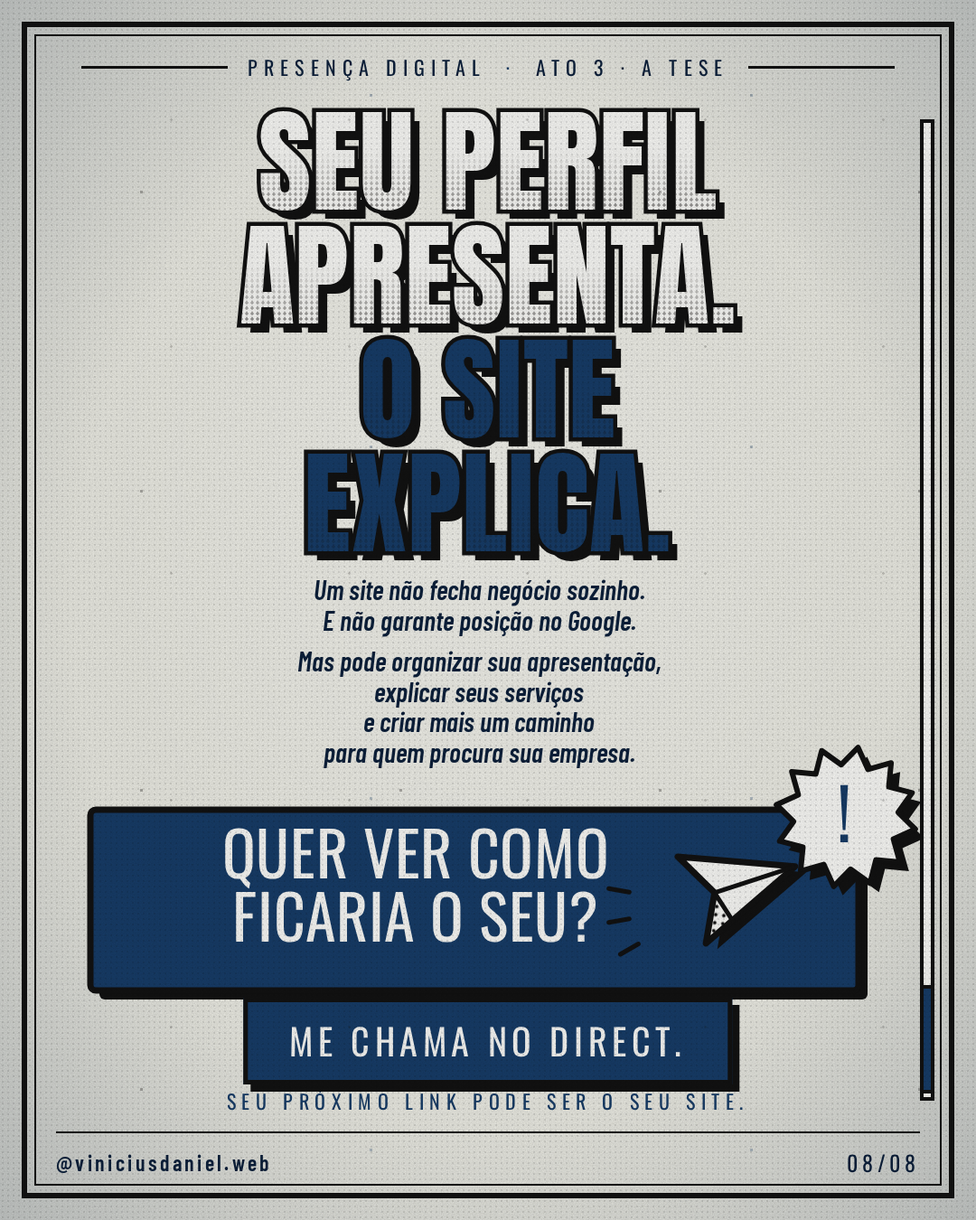
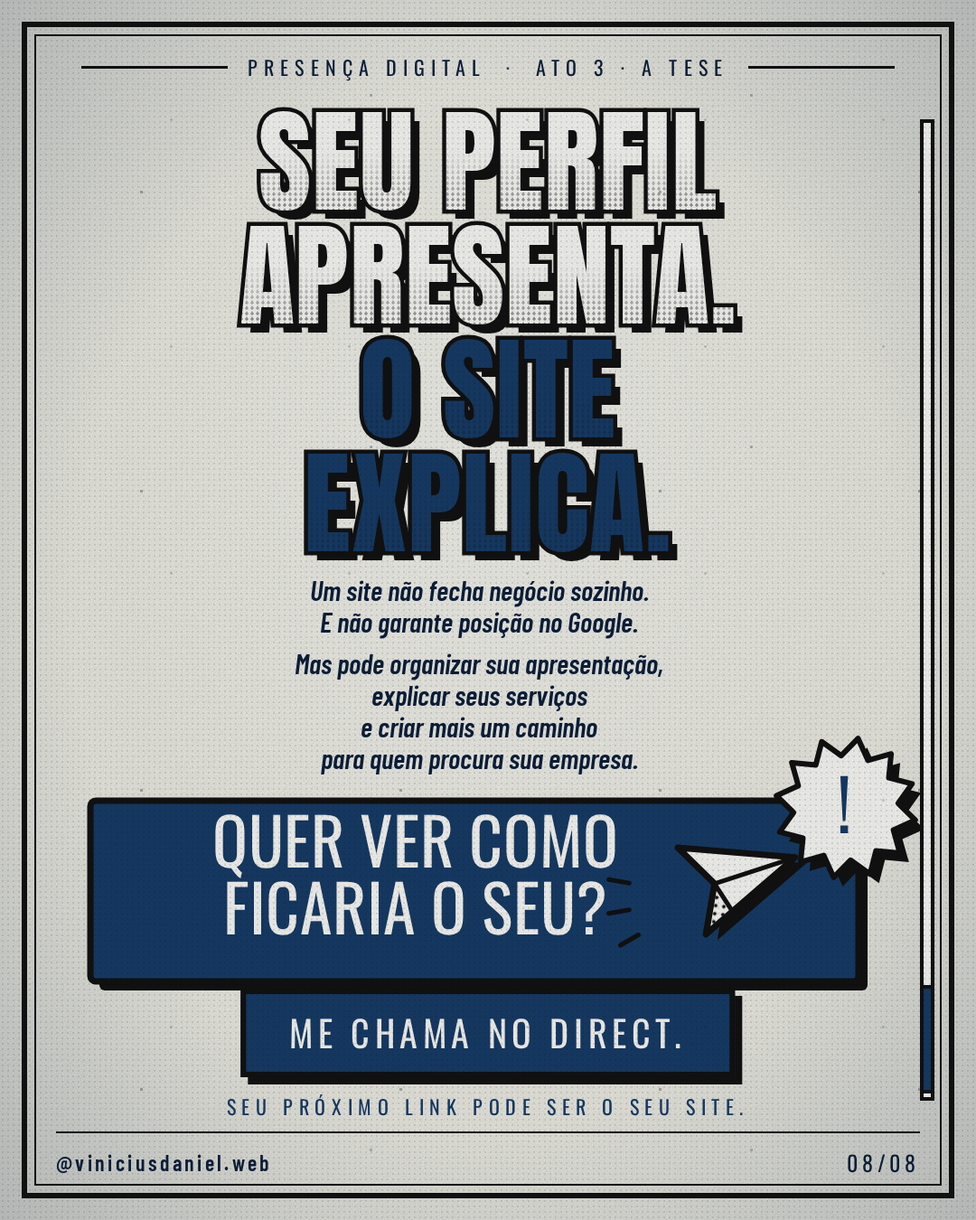
Segundo passe de acabamento
Textos pequenos com mais corpo (legendas, balões, categorias, rótulos do
feed), CTA da capa com borda de 6px, página 07 com mais espaço entre os
testes e selos maiores, página 08 com CTA e pergunta principal maiores.
Paleta verificada: apenas #E9E9E1, #F7F7F4, #163B66, #0B1F3A e #111111
nas 8 páginas; scroll avança em passos iguais da 01 à 08.

Claude-Session: https://claude.ai/code/session_01AyRMPHZabwp6dDTAK3QhXg

Changed region(s): [[0.0917, 0.4667, 0.9472, 0.9333]]

diff --git a/pages/07.html b/pages/07.html
@@ -9,12 +9,12 @@
 <div class="page" id="p7">
   <div class="kicker">PRESENÇA DIGITAL <em>·</em> ATO 3 · O TESTE</div>
   
-    <div class="hl center" style="top:118px;font-size:90px;"><span class="l" data-t="NÃO ACREDITE">NÃO ACREDITE</span><span class="l" data-t="EM MIM.">EM MIM.</span><span class="l or" data-t="TESTE.">TESTE.</span></div>
-    <div class="band center" style="top:392px;font-size:38px;">3 TESTES. 30 SEGUNDOS.</div>
-    <div style="position:absolute;left:84px;right:96px;top:664px;height:3px;background:#111111;z-index:9"></div>
-    <div style="position:absolute;left:84px;right:96px;top:862px;height:3px;background:#111111;z-index:9"></div>
+    <div class="hl center" style="top:116px;font-size:86px;"><span class="l" data-t="NÃO ACREDITE">NÃO ACREDITE</span><span class="l" data-t="EM MIM.">EM MIM.</span><span class="l or" data-t="TESTE.">TESTE.</span></div>
+    <div class="band center" style="top:380px;font-size:38px;">3 TESTES. 30 SEGUNDOS.</div>
+    <div style="position:absolute;left:84px;right:96px;top:656px;height:3px;background:#111111;z-index:9"></div>
+    <div style="position:absolute;left:84px;right:96px;top:860px;height:3px;background:#111111;z-index:9"></div>
     
-  <div class="test" style="position:absolute;left:84px;right:96px;top:474px;height:184px;z-index:10">
+  <div class="test" style="position:absolute;left:84px;right:96px;top:462px;height:184px;z-index:10">
     <svg class="art " style="display:block" width="140" height="184" viewBox="0 0 140 184" xmlns="http://www.w3.org/2000/svg">
 <defs>
   <pattern id="ht" width="9" height="9" patternUnits="userSpaceOnUse" patternTransform="rotate(25)">
@@ -30,15 +30,15 @@
     <rect width="4" height="10" fill="#111111"/>
   </pattern>
 </defs>
-  <g transform="translate(64,92)">
-    <circle cx="10" cy="10" r="56" fill="#111111"/>
-    <circle cx="0" cy="0" r="56" fill="#163B66" stroke="#111111" stroke-width="7"/>
-    <circle cx="0" cy="0" r="42" fill="none" stroke="#F7F7F4" stroke-width="3" stroke-dasharray="8 7"/>
-    <text x="0" y="28.799999999999997" font-family="Anton" font-weight="400" font-size="80" fill="#F7F7F4" text-anchor="middle" letter-spacing="0"  >1</text>
+  <g transform="translate(66,92)">
+    <circle cx="10" cy="10" r="60" fill="#111111"/>
+    <circle cx="0" cy="0" r="60" fill="#163B66" stroke="#111111" stroke-width="7"/>
+    <circle cx="0" cy="0" r="46" fill="none" stroke="#F7F7F4" stroke-width="3" stroke-dasharray="8 7"/>
+    <text x="0" y="30.959999999999997" font-family="Anton" font-weight="400" font-size="86" fill="#F7F7F4" text-anchor="middle" letter-spacing="0"  >1</text>
   </g></svg>
     <div style="position:absolute;left:146px;top:16px;width:520px">
       <div style="display:inline-block;background:#163B66;color:#F7F7F4;font-family:Oswald;font-weight:700;font-size:27px;letter-spacing:.14em;padding:3px 16px 4px;border:4px solid #111111;box-shadow:5px 5px 0 #111111;transform:rotate(-1.5deg)">PESQUISE:</div>
-      <div style="font-family:'Barlow Condensed';font-weight:600;font-size:30px;line-height:1.1;margin-top:12px;color:#0B1F3A"><span class="hi" style="font-weight:800;font-size:31px;padding:0 8px;background:#163B66;color:#F7F7F4">seu serviço + sua cidade</span><br><span style="display:inline-block;margin-top:8px">É fácil encontrar e entender sua empresa?</span></div>
+      <div style="font-family:'Barlow Condensed';font-weight:600;font-size:31px;line-height:1.1;margin-top:12px;color:#0B1F3A"><span class="hi" style="font-weight:800;font-size:31px;padding:0 8px;background:#163B66;color:#F7F7F4">seu serviço + sua cidade</span><br><span style="display:inline-block;margin-top:8px">É fácil encontrar e entender sua empresa?</span></div>
     </div>
     <svg class="art " style="position:absolute;left:600px;top:0px;z-index:8" width="300" height="184" viewBox="0 0 300 184" xmlns="http://www.w3.org/2000/svg">
 <defs>
@@ -61,10 +61,10 @@
     <rect x="165.2" y="9.28" width="81.19999999999999" height="39.440000000000005" rx="19.720000000000002" fill="#163B66" stroke="#111111" stroke-width="5"/>
     <circle cx="205.8" cy="26" r="8.7" fill="none" stroke="#F7F7F4" stroke-width="5"/>
     <line x1="211.6" y1="36" x2="218.56" y2="47" stroke="#F7F7F4" stroke-width="6" stroke-linecap="round"/>
-  </g><polygon points="286,34 289.36,42.64 298,46 289.36,49.36 286,58 282.64,49.36 274,46 282.64,42.64" fill="#163B66"/><polygon points="24,125 26.52,131.48 33,134 26.52,136.52 24,143 21.48,136.52 15,134 21.48,131.48" fill="#111111"/></svg>
+  </g><polygon points="286,34 289.36,42.64 298,46 289.36,49.36 286,58 282.64,49.36 274,46 282.64,42.64" fill="#163B66"/><polygon points="150,141 152.52,147.48 159,150 152.52,152.52 150,159 147.48,152.52 141,150 147.48,147.48" fill="#111111"/></svg>
   </div>
     
-  <div class="test" style="position:absolute;left:84px;right:96px;top:672px;height:184px;z-index:10">
+  <div class="test" style="position:absolute;left:84px;right:96px;top:666px;height:184px;z-index:10">
     <svg class="art " style="display:block" width="140" height="184" viewBox="0 0 140 184" xmlns="http://www.w3.org/2000/svg">
 <defs>
   <pattern id="ht" width="9" height="9" patternUnits="userSpaceOnUse" patternTransform="rotate(25)">
@@ -80,15 +80,15 @@
     <rect width="4" height="10" fill="#111111"/>
   </pattern>
 </defs>
-  <g transform="translate(64,92)">
-    <circle cx="10" cy="10" r="56" fill="#111111"/>
-    <circle cx="0" cy="0" r="56" fill="#163B66" stroke="#111111" stroke-width="7"/>
-    <circle cx="0" cy="0" r="42" fill="none" stroke="#F7F7F4" stroke-width="3" stroke-dasharray="8 7"/>
-    <text x="0" y="28.799999999999997" font-family="Anton" font-weight="400" font-size="80" fill="#F7F7F4" text-anchor="middle" letter-spacing="0"  >2</text>
+  <g transform="translate(66,92)">
+    <circle cx="10" cy="10" r="60" fill="#111111"/>
+    <circle cx="0" cy="0" r="60" fill="#163B66" stroke="#111111" stroke-width="7"/>
+    <circle cx="0" cy="0" r="46" fill="none" stroke="#F7F7F4" stroke-width="3" stroke-dasharray="8 7"/>
+    <text x="0" y="30.959999999999997" font-family="Anton" font-weight="400" font-size="86" fill="#F7F7F4" text-anchor="middle" letter-spacing="0"  >2</text>
   </g></svg>
     <div style="position:absolute;left:146px;top:16px;width:520px">
       <div style="display:inline-block;background:#163B66;color:#F7F7F4;font-family:Oswald;font-weight:700;font-size:27px;letter-spacing:.14em;padding:3px 16px 4px;border:4px solid #111111;box-shadow:5px 5px 0 #111111;transform:rotate(-1.5deg)">PEÇA PARA ALGUÉM ENCONTRAR:</div>
-      <div style="font-family:'Barlow Condensed';font-weight:600;font-size:30px;line-height:1.1;margin-top:12px;color:#0B1F3A">sua região · seu horário · seus serviços<br><span style="font-weight:800;font-size:32px;letter-spacing:.04em;display:inline-block;margin-top:8px">EM 30 SEGUNDOS.</span></div>
+      <div style="font-family:'Barlow Condensed';font-weight:600;font-size:31px;line-height:1.1;margin-top:12px;color:#0B1F3A">sua região · seu horário · seus serviços<br><span style="font-weight:800;font-size:32px;letter-spacing:.04em;display:inline-block;margin-top:8px">EM 30 SEGUNDOS.</span></div>
     </div>
     <svg class="art " style="position:absolute;left:600px;top:0px;z-index:8" width="300" height="184" viewBox="0 0 300 184" xmlns="http://www.w3.org/2000/svg">
 <defs>
@@ -136,15 +136,15 @@
     <rect width="4" height="10" fill="#111111"/>
   </pattern>
 </defs>
-  <g transform="translate(64,92)">
-    <circle cx="10" cy="10" r="56" fill="#111111"/>
-    <circle cx="0" cy="0" r="56" fill="#163B66" stroke="#111111" stroke-width="7"/>
-    <circle cx="0" cy="0" r="42" fill="none" stroke="#F7F7F4" stroke-width="3" stroke-dasharray="8 7"/>
-    <text x="0" y="28.799999999999997" font-family="Anton" font-weight="400" font-size="80" fill="#F7F7F4" text-anchor="middle" letter-spacing="0"  >3</text>
+  <g transform="translate(66,92)">
+    <circle cx="10" cy="10" r="60" fill="#111111"/>
+    <circle cx="0" cy="0" r="60" fill="#163B66" stroke="#111111" stroke-width="7"/>
+    <circle cx="0" cy="0" r="46" fill="none" stroke="#F7F7F4" stroke-width="3" stroke-dasharray="8 7"/>
+    <text x="0" y="30.959999999999997" font-family="Anton" font-weight="400" font-size="86" fill="#F7F7F4" text-anchor="middle" letter-spacing="0"  >3</text>
   </g></svg>
     <div style="position:absolute;left:146px;top:16px;width:520px">
       <div style="display:inline-block;background:#163B66;color:#F7F7F4;font-family:Oswald;font-weight:700;font-size:27px;letter-spacing:.14em;padding:3px 16px 4px;border:4px solid #111111;box-shadow:5px 5px 0 #111111;transform:rotate(-1.5deg)">CONTE:</div>
-      <div style="font-family:'Barlow Condensed';font-weight:600;font-size:30px;line-height:1.1;margin-top:12px;color:#0B1F3A">quantas vezes nesta semana<br>você respondeu <span style="font-weight:800">a mesma pergunta</span><br>no WhatsApp.</div>
+      <div style="font-family:'Barlow Condensed';font-weight:600;font-size:31px;line-height:1.1;margin-top:12px;color:#0B1F3A">quantas vezes nesta semana<br>você respondeu <span style="font-weight:800">a mesma pergunta</span><br>no WhatsApp.</div>
     </div>
     <svg class="art " style="position:absolute;left:600px;top:0px;z-index:8" width="300" height="184" viewBox="0 0 300 184" xmlns="http://www.w3.org/2000/svg">
 <defs>
@@ -174,7 +174,7 @@
     <text x="100" y="30.56" font-family="Barlow Condensed" font-weight="700" font-size="21" fill="#F7F7F4" text-anchor="middle" letter-spacing=".02em"  >“Qual o horário?”</text>
   </g><polygon points="272,24 275.36,32.64 284,36 275.36,39.36 272,48 268.64,39.36 260,36 268.64,32.64" fill="#163B66"/></svg>
   </div>
-    <div class="final" style="top:1070px;font-size:70px;">O RESULTADO<br><span class="or">FALA POR VOCÊ.</span></div>
+    <div class="final" style="top:1074px;font-size:70px;">O RESULTADO<br><span class="or">FALA POR VOCÊ.</span></div>
   
   <div class="frame"></div>
   <div class="scroll"><div class="thumb" style="top:817px"></div></div>

diff --git a/pages/04.html b/pages/04.html
@@ -47,7 +47,7 @@
   <pattern id="lines" width="10" height="10" patternUnits="userSpaceOnUse" patternTransform="rotate(45)">
     <rect width="4" height="10" fill="#111111"/>
   </pattern>
-</defs><rect x="47" y="21" width="300" height="66" rx="4" fill="#111111"/><rect x="40" y="14" width="300" height="66" rx="4" fill="#F7F7F4" stroke="#111111" stroke-width="5" /><rect x="52" y="26" width="42" height="42" rx="3" fill="#163B66" stroke="#111111" stroke-width="4" /><line x1="108" y1="38" x2="218" y2="38" stroke="#111111" stroke-width="6" stroke-linecap="round"/><line x1="108" y1="58" x2="179.5" y2="58" stroke="#111111" stroke-width="6" stroke-linecap="round"/><text x="328" y="56" font-family="Oswald" font-weight="700" font-size="16" fill="#0B1F3A" text-anchor="end" letter-spacing=".1em"  >HOJE</text><rect x="61" y="97" width="300" height="66" rx="4" fill="#111111"/><rect x="54" y="90" width="300" height="66" rx="4" fill="url(#ht)" stroke="#111111" stroke-width="5" /><rect x="57" y="93" width="294" height="60" fill="#F7F7F4"/><rect x="57" y="93" width="294" height="60" fill="url(#ht)" opacity=".3"/><rect x="66" y="102" width="42" height="42" rx="3" fill="#F7F7F4" stroke="#111111" stroke-width="4" /><rect x="69" y="105" width="36" height="36" fill="url(#ht)" opacity=".4"/><line x1="122" y1="114" x2="232" y2="114" stroke="#111111" stroke-width="6" stroke-linecap="round"/><line x1="122" y1="134" x2="193.5" y2="134" stroke="#111111" stroke-width="6" stroke-linecap="round"/><text x="342" y="132" font-family="Oswald" font-weight="700" font-size="16" fill="#0B1F3A" text-anchor="end" letter-spacing=".1em"  >ONTEM</text><rect x="75" y="173" width="300" height="66" rx="4" fill="#111111"/><rect x="68" y="166" width="300" height="66" rx="4" fill="#F7F7F4" stroke="#111111" stroke-width="5" /><rect x="80" y="178" width="42" height="42" rx="3" fill="#F7F7F4" stroke="#111111" stroke-width="4" /><rect x="83" y="181" width="36" height="36" fill="url(#ht)" opacity=".4"/><line x1="136" y1="190" x2="246" y2="190" stroke="#111111" stroke-width="6" stroke-linecap="round"/><line x1="136" y1="210" x2="207.5" y2="210" stroke="#111111" stroke-width="6" stroke-linecap="round"/><text x="356" y="208" font-family="Oswald" font-weight="700" font-size="16" fill="#0B1F3A" text-anchor="end" letter-spacing=".1em"  >SEMANA PASSADA</text><rect x="89" y="249" width="300" height="66" rx="4" fill="#111111"/><rect x="82" y="242" width="300" height="66" rx="4" fill="url(#ht)" stroke="#111111" stroke-width="5" /><rect x="85" y="245" width="294" height="60" fill="#F7F7F4"/><rect x="85" y="245" width="294" height="60" fill="url(#ht)" opacity=".3"/><rect x="94" y="254" width="42" height="42" rx="3" fill="#163B66" stroke="#111111" stroke-width="4" /><line x1="150" y1="266" x2="260" y2="266" stroke="#111111" stroke-width="6" stroke-linecap="round"/><line x1="150" y1="286" x2="221.5" y2="286" stroke="#111111" stroke-width="6" stroke-linecap="round"/><text x="370" y="284" font-family="Oswald" font-weight="700" font-size="16" fill="#0B1F3A" text-anchor="end" letter-spacing=".1em"  >MÊS PASSADO</text><g transform="translate(392,40) rotate(90)">
+</defs><rect x="47" y="21" width="300" height="66" rx="4" fill="#111111"/><rect x="40" y="14" width="300" height="66" rx="4" fill="#F7F7F4" stroke="#111111" stroke-width="5" /><rect x="52" y="26" width="42" height="42" rx="3" fill="#163B66" stroke="#111111" stroke-width="4" /><line x1="108" y1="38" x2="218" y2="38" stroke="#111111" stroke-width="6" stroke-linecap="round"/><line x1="108" y1="58" x2="179.5" y2="58" stroke="#111111" stroke-width="6" stroke-linecap="round"/><text x="328" y="57" font-family="Oswald" font-weight="700" font-size="18" fill="#0B1F3A" text-anchor="end" letter-spacing=".08em"  >HOJE</text><rect x="61" y="97" width="300" height="66" rx="4" fill="#111111"/><rect x="54" y="90" width="300" height="66" rx="4" fill="url(#ht)" stroke="#111111" stroke-width="5" /><rect x="57" y="93" width="294" height="60" fill="#F7F7F4"/><rect x="57" y="93" width="294" height="60" fill="url(#ht)" opacity=".3"/><rect x="66" y="102" width="42" height="42" rx="3" fill="#F7F7F4" stroke="#111111" stroke-width="4" /><rect x="69" y="105" width="36" height="36" fill="url(#ht)" opacity=".4"/><line x1="122" y1="114" x2="232" y2="114" stroke="#111111" stroke-width="6" stroke-linecap="round"/><line x1="122" y1="134" x2="193.5" y2="134" stroke="#111111" stroke-width="6" stroke-linecap="round"/><text x="342" y="133" font-family="Oswald" font-weight="700" font-size="18" fill="#0B1F3A" text-anchor="end" letter-spacing=".08em"  >ONTEM</text><rect x="75" y="173" width="300" height="66" rx="4" fill="#111111"/><rect x="68" y="166" width="300" height="66" rx="4" fill="#F7F7F4" stroke="#111111" stroke-width="5" /><rect x="80" y="178" width="42" height="42" rx="3" fill="#F7F7F4" stroke="#111111" stroke-width="4" /><rect x="83" y="181" width="36" height="36" fill="url(#ht)" opacity=".4"/><line x1="136" y1="190" x2="246" y2="190" stroke="#111111" stroke-width="6" stroke-linecap="round"/><line x1="136" y1="210" x2="207.5" y2="210" stroke="#111111" stroke-width="6" stroke-linecap="round"/><text x="356" y="209" font-family="Oswald" font-weight="700" font-size="18" fill="#0B1F3A" text-anchor="end" letter-spacing=".08em"  >SEMANA PASSADA</text><rect x="89" y="249" width="300" height="66" rx="4" fill="#111111"/><rect x="82" y="242" width="300" height="66" rx="4" fill="url(#ht)" stroke="#111111" stroke-width="5" /><rect x="85" y="245" width="294" height="60" fill="#F7F7F4"/><rect x="85" y="245" width="294" height="60" fill="url(#ht)" opacity=".3"/><rect x="94" y="254" width="42" height="42" rx="3" fill="#163B66" stroke="#111111" stroke-width="4" /><line x1="150" y1="266" x2="260" y2="266" stroke="#111111" stroke-width="6" stroke-linecap="round"/><line x1="150" y1="286" x2="221.5" y2="286" stroke="#111111" stroke-width="6" stroke-linecap="round"/><text x="370" y="285" font-family="Oswald" font-weight="700" font-size="18" fill="#0B1F3A" text-anchor="end" letter-spacing=".08em"  >MÊS PASSADO</text><g transform="translate(392,40) rotate(90)">
     <polygon points="0,-11 215.8,-11 215.8,-22 240,0 215.8,22 215.8,11 0,11" fill="#111111" transform="translate(8,8)"/>
     <polygon points="0,-11 215.8,-11 215.8,-22 240,0 215.8,22 215.8,11 0,11" fill="#163B66" stroke="#111111" stroke-width="6" stroke-linejoin="round"/>
   </g></svg><div class="cap">No feed, o conteúdo acompanha<br>a ordem das publicações.</div></div>
@@ -74,7 +74,7 @@
     <circle cx="17.6" cy="17.6" r="6.4" fill="#F7F7F4"/><circle cx="40" cy="17.6" r="6.4" fill="#163B66"/><circle cx="62.400000000000006" cy="17.6" r="6.4" fill="#F7F7F4"/>
     <rect x="11.200000000000001" y="41.6" width="349.6" height="22.4" rx="11.2" fill="#F7F7F4" stroke="#111111" stroke-width="4" />
     <text x="186" y="57.28" font-family="Barlow Condensed" font-weight="700" font-size="16" fill="#0B1F3A" text-anchor="middle" letter-spacing=".06em"  >suaempresa.com.br</text>
-    <rect x="12.8" y="80" width="346.4" height="46.099999999999994" rx="3" fill="#F7F7F4" stroke="#111111" stroke-width="5" /><text x="186" y="112.65" font-family="Oswald" font-weight="700" font-size="25.6" fill="#163B66" text-anchor="middle" letter-spacing=".12em"  >SERVIÇOS</text><rect x="12.8" y="135.7" width="346.4" height="46.099999999999994" rx="3" fill="#163B66" stroke="#111111" stroke-width="5" /><text x="186" y="168.35" font-family="Oswald" font-weight="700" font-size="25.6" fill="#F7F7F4" text-anchor="middle" letter-spacing=".12em"  >REGIÕES</text><rect x="12.8" y="191.39999999999998" width="346.4" height="46.099999999999994" rx="3" fill="#F7F7F4" stroke="#111111" stroke-width="5" /><text x="186" y="224.04999999999998" font-family="Oswald" font-weight="700" font-size="25.6" fill="#163B66" text-anchor="middle" letter-spacing=".12em"  >COMO FUNCIONA</text><rect x="12.8" y="247.1" width="346.4" height="46.099999999999994" rx="3" fill="#163B66" stroke="#111111" stroke-width="5" /><text x="186" y="279.75" font-family="Oswald" font-weight="700" font-size="25.6" fill="#F7F7F4" text-anchor="middle" letter-spacing=".12em"  >CONTATO</text>
+    <rect x="12.8" y="80" width="346.4" height="46.099999999999994" rx="3" fill="#F7F7F4" stroke="#111111" stroke-width="5" /><text x="186" y="112.65" font-family="Oswald" font-weight="700" font-size="27.200000000000003" fill="#163B66" text-anchor="middle" letter-spacing=".1em"  >SERVIÇOS</text><rect x="12.8" y="135.7" width="346.4" height="46.099999999999994" rx="3" fill="#163B66" stroke="#111111" stroke-width="5" /><text x="186" y="168.35" font-family="Oswald" font-weight="700" font-size="27.200000000000003" fill="#F7F7F4" text-anchor="middle" letter-spacing=".1em"  >REGIÕES</text><rect x="12.8" y="191.39999999999998" width="346.4" height="46.099999999999994" rx="3" fill="#F7F7F4" stroke="#111111" stroke-width="5" /><text x="186" y="224.04999999999998" font-family="Oswald" font-weight="700" font-size="27.200000000000003" fill="#163B66" text-anchor="middle" letter-spacing=".1em"  >COMO FUNCIONA</text><rect x="12.8" y="247.1" width="346.4" height="46.099999999999994" rx="3" fill="#163B66" stroke="#111111" stroke-width="5" /><text x="186" y="279.75" font-family="Oswald" font-weight="700" font-size="27.200000000000003" fill="#F7F7F4" text-anchor="middle" letter-spacing=".1em"  >CONTATO</text>
   </g>
     <polygon points="400,26 403.92,36.08 414,40 403.92,43.92 400,54 396.08,43.92 386,40 396.08,36.08" fill="#163B66"/>
   </svg><div class="cap">Serviços, regiões, processo<br>e contato ficam organizados<br>por assunto.</div></div>

diff --git a/pages/06.html b/pages/06.html
@@ -53,28 +53,28 @@
     <rect x="0" y="0" width="270" height="50" rx="18" fill="#F7F7F4" stroke="#111111" stroke-width="6" />
     <polygon points="18,48 4,68 44,48" fill="#F7F7F4" stroke="#111111" stroke-width="6" stroke-linejoin="round"/>
     <rect x="6" y="42" width="258" height="10" fill="#F7F7F4"/>
-    <text x="135" y="34.36" font-family="Barlow Condensed" font-weight="700" font-size="26" fill="#0B1F3A" text-anchor="middle" letter-spacing=".02em"  >“Qual o horário?”</text>
+    <text x="135" y="34.72" font-family="Barlow Condensed" font-weight="700" font-size="27" fill="#0B1F3A" text-anchor="middle" letter-spacing=".02em"  >“Qual o horário?”</text>
   </g>
     <g transform="translate(120,104) rotate(1)">
     <rect x="8" y="8" width="280" height="50" rx="18" fill="#111111"/>
     <rect x="0" y="0" width="280" height="50" rx="18" fill="#163B66" stroke="#111111" stroke-width="6" />
     <polygon points="262,48 276,68 236,48" fill="#163B66" stroke="#111111" stroke-width="6" stroke-linejoin="round"/>
     <rect x="6" y="42" width="268" height="10" fill="#163B66"/>
-    <text x="140" y="34.36" font-family="Barlow Condensed" font-weight="700" font-size="26" fill="#F7F7F4" text-anchor="middle" letter-spacing=".02em"  >“Onde vocês atendem?”</text>
+    <text x="140" y="34.72" font-family="Barlow Condensed" font-weight="700" font-size="27" fill="#F7F7F4" text-anchor="middle" letter-spacing=".02em"  >“Onde vocês atendem?”</text>
   </g>
     <g transform="translate(22,174) rotate(-1)">
     <rect x="8" y="8" width="290" height="50" rx="18" fill="#111111"/>
     <rect x="0" y="0" width="290" height="50" rx="18" fill="#F7F7F4" stroke="#111111" stroke-width="6" />
     <polygon points="18,48 4,68 44,48" fill="#F7F7F4" stroke="#111111" stroke-width="6" stroke-linejoin="round"/>
     <rect x="6" y="42" width="278" height="10" fill="#F7F7F4"/>
-    <text x="145" y="34.36" font-family="Barlow Condensed" font-weight="700" font-size="26" fill="#0B1F3A" text-anchor="middle" letter-spacing=".02em"  >“Quais serviços fazem?”</text>
+    <text x="145" y="34.72" font-family="Barlow Condensed" font-weight="700" font-size="27" fill="#0B1F3A" text-anchor="middle" letter-spacing=".02em"  >“Quais serviços fazem?”</text>
   </g>
     <g transform="translate(140,244) rotate(1)">
     <rect x="8" y="8" width="258" height="50" rx="18" fill="#111111"/>
     <rect x="0" y="0" width="258" height="50" rx="18" fill="#163B66" stroke="#111111" stroke-width="6" />
     <polygon points="240,48 254,68 214,48" fill="#163B66" stroke="#111111" stroke-width="6" stroke-linejoin="round"/>
     <rect x="6" y="42" width="246" height="10" fill="#163B66"/>
-    <text x="129" y="34.36" font-family="Barlow Condensed" font-weight="700" font-size="26" fill="#F7F7F4" text-anchor="middle" letter-spacing=".02em"  >“Como funciona?”</text>
+    <text x="129" y="34.72" font-family="Barlow Condensed" font-weight="700" font-size="27" fill="#F7F7F4" text-anchor="middle" letter-spacing=".02em"  >“Como funciona?”</text>
   </g>
   </svg><div class="cap">As mesmas perguntas,<br>uma conversa de cada vez.</div></div>
       <div class="panel site"><span class="tab">Com site</span><svg class="art inline" style="display:block" width="418" height="330" viewBox="0 0 418 330" xmlns="http://www.w3.org/2000/svg">
@@ -108,7 +108,7 @@
     <circle cx="13.64" cy="13.64" r="4.96" fill="#F7F7F4"/><circle cx="31" cy="13.64" r="4.96" fill="#163B66"/><circle cx="48.36" cy="13.64" r="4.96" fill="#F7F7F4"/>
     <rect x="8.68" y="32.24" width="320.64" height="17.36" rx="8.68" fill="#F7F7F4" stroke="#111111" stroke-width="4" />
     <text x="169" y="44.392" font-family="Barlow Condensed" font-weight="700" font-size="12.4" fill="#0B1F3A" text-anchor="middle" letter-spacing=".06em"  >suaempresa.com.br</text>
-    <rect x="9.92" y="62" width="318.16" height="27.664000000000005" rx="3" fill="#F7F7F4" stroke="#111111" stroke-width="5" /><text x="169" y="83.272" font-family="Oswald" font-weight="700" font-size="19.84" fill="#163B66" text-anchor="middle" letter-spacing=".12em"  >SERVIÇOS</text><rect x="9.92" y="97.10400000000001" width="318.16" height="27.664000000000005" rx="3" fill="#163B66" stroke="#111111" stroke-width="5" /><text x="169" y="118.37600000000002" font-family="Oswald" font-weight="700" font-size="19.84" fill="#F7F7F4" text-anchor="middle" letter-spacing=".12em"  >REGIÃO</text><rect x="9.92" y="132.20800000000003" width="318.16" height="27.664000000000005" rx="3" fill="#F7F7F4" stroke="#111111" stroke-width="5" /><text x="169" y="153.48000000000002" font-family="Oswald" font-weight="700" font-size="19.84" fill="#163B66" text-anchor="middle" letter-spacing=".12em"  >PROCESSO</text><rect x="9.92" y="167.312" width="318.16" height="27.664000000000005" rx="3" fill="#163B66" stroke="#111111" stroke-width="5" /><text x="169" y="188.584" font-family="Oswald" font-weight="700" font-size="19.84" fill="#F7F7F4" text-anchor="middle" letter-spacing=".12em"  >HORÁRIO</text><rect x="9.92" y="202.41600000000003" width="318.16" height="27.664000000000005" rx="3" fill="#F7F7F4" stroke="#111111" stroke-width="5" /><text x="169" y="223.68800000000002" font-family="Oswald" font-weight="700" font-size="19.84" fill="#163B66" text-anchor="middle" letter-spacing=".12em"  >CONTATO</text>
+    <rect x="9.92" y="62" width="318.16" height="27.664000000000005" rx="3" fill="#F7F7F4" stroke="#111111" stroke-width="5" /><text x="169" y="83.272" font-family="Oswald" font-weight="700" font-size="21.08" fill="#163B66" text-anchor="middle" letter-spacing=".1em"  >SERVIÇOS</text><rect x="9.92" y="97.10400000000001" width="318.16" height="27.664000000000005" rx="3" fill="#163B66" stroke="#111111" stroke-width="5" /><text x="169" y="118.37600000000002" font-family="Oswald" font-weight="700" font-size="21.08" fill="#F7F7F4" text-anchor="middle" letter-spacing=".1em"  >REGIÃO</text><rect x="9.92" y="132.20800000000003" width="318.16" height="27.664000000000005" rx="3" fill="#F7F7F4" stroke="#111111" stroke-width="5" /><text x="169" y="153.48000000000002" font-family="Oswald" font-weight="700" font-size="21.08" fill="#163B66" text-anchor="middle" letter-spacing=".1em"  >PROCESSO</text><rect x="9.92" y="167.312" width="318.16" height="27.664000000000005" rx="3" fill="#163B66" stroke="#111111" stroke-width="5" /><text x="169" y="188.584" font-family="Oswald" font-weight="700" font-size="21.08" fill="#F7F7F4" text-anchor="middle" letter-spacing=".1em"  >HORÁRIO</text><rect x="9.92" y="202.41600000000003" width="318.16" height="27.664000000000005" rx="3" fill="#F7F7F4" stroke="#111111" stroke-width="5" /><text x="169" y="223.68800000000002" font-family="Oswald" font-weight="700" font-size="21.08" fill="#163B66" text-anchor="middle" letter-spacing=".1em"  >CONTATO</text>
   </g>
     <polygon points="396,78 399.92,88.08 410,92 399.92,95.92 396,106 392.08,95.92 382,92 392.08,88.08" fill="#163B66"/>
   </svg><div class="cap">Você manda um link.<br>E nele a pessoa encontra tudo.</div></div>
@@ -131,7 +131,7 @@
     <polygon points="0,-20 90,-20 90,-40 134,0 90,40 90,20 0,20" fill="#111111" transform="translate(8,8)"/>
     <polygon points="0,-20 90,-20 90,-40 134,0 90,40 90,20 0,20" fill="#163B66" stroke="#111111" stroke-width="7" stroke-linejoin="round"/>
   </g></svg>
-    <div class="final" style="top:1030px;font-size:60px;">VOCÊ PARA DE REPETIR.<br><span class="or">O SITE COMEÇA A EXPLICAR.</span></div>
+    <div class="final" style="top:1046px;font-size:60px;">VOCÊ PARA DE REPETIR.<br><span class="or">O SITE COMEÇA A EXPLICAR.</span></div>
     
   
   <div class="frame"></div>

diff --git a/pages/08.html b/pages/08.html
@@ -10,8 +10,8 @@
   <div class="kicker">PRESENÇA DIGITAL <em>·</em> ATO 3 · A TESE</div>
   
     <div class="hl center" style="top:116px;font-size:126px;"><span class="l" data-t="SEU PERFIL">SEU PERFIL</span><span class="l" data-t="APRESENTA.">APRESENTA.</span><span class="l or" data-t="O SITE">O SITE</span><span class="l or" data-t="EXPLICA.">EXPLICA.</span></div>
-    <div class="txt serifish" style="top:636px;left:120px;right:140px;font-size:30px;font-weight:600;color:#0B1F3A">Um site não fecha negócio sozinho.<br>E não garante posição no Google.<br><span style="display:block;height:12px"></span>Mas pode organizar sua apresentação,<br>explicar seus serviços<br>e criar mais um caminho<br>para quem procura sua empresa.</div>
-    <svg class="art " style="position:absolute;left:60px;top:800px;z-index:8" width="960" height="330" viewBox="0 0 960 330" xmlns="http://www.w3.org/2000/svg">
+    <div class="txt serifish" style="top:636px;left:120px;right:140px;font-size:31px;font-weight:600;color:#0B1F3A">Um site não fecha negócio sozinho.<br>E não garante posição no Google.<br><span style="display:block;height:12px"></span>Mas pode organizar sua apresentação,<br>explicar seus serviços<br>e criar mais um caminho<br>para quem procura sua empresa.</div>
+    <svg class="art " style="position:absolute;left:60px;top:790px;z-index:8" width="960" height="330" viewBox="0 0 960 330" xmlns="http://www.w3.org/2000/svg">
 <defs>
   <pattern id="ht" width="9" height="9" patternUnits="userSpaceOnUse" patternTransform="rotate(25)">
     <circle cx="4.5" cy="4.5" r="1.9" fill="#111111"/>
@@ -29,8 +29,8 @@
       <rect x="50" y="106" width="850" height="200" rx="6" fill="#111111"/><rect x="40" y="96" width="850" height="200" rx="6" fill="#163B66" stroke="#111111" stroke-width="7" />
       <polygon points="952.8,117.5 928.6,128.5 935.8,154.1 909.3,151.5 902.7,177.3 881.1,161.8 862.5,180.8 851.5,156.6 825.9,163.8 828.5,137.3 802.7,130.7 818.2,109.1 799.2,90.5 823.4,79.5 816.2,53.9 842.7,56.5 849.3,30.7 870.9,46.2 889.5,27.2 900.5,51.4 926.1,44.2 923.5,70.7 949.3,77.3 933.8,98.9" fill="#111111" transform="translate(10,10)"/><polygon points="952.8,117.5 928.6,128.5 935.8,154.1 909.3,151.5 902.7,177.3 881.1,161.8 862.5,180.8 851.5,156.6 825.9,163.8 828.5,137.3 802.7,130.7 818.2,109.1 799.2,90.5 823.4,79.5 816.2,53.9 842.7,56.5 849.3,30.7 870.9,46.2 889.5,27.2 900.5,51.4 926.1,44.2 923.5,70.7 949.3,77.3 933.8,98.9" fill="#F7F7F4" stroke="#111111" stroke-width="6" stroke-linejoin="round"/>
       <text x="876" y="132" font-family="Anton" font-weight="400" font-size="78" fill="#163B66" text-anchor="middle" letter-spacing=".04em"  >!</text>
-      <text x="400" y="172" font-family="Anton" font-weight="400" font-size="68" fill="#F7F7F4" text-anchor="middle" letter-spacing=".01em"  >QUER VER COMO</text>
-      <text x="400" y="242" font-family="Anton" font-weight="400" font-size="68" fill="#F7F7F4" text-anchor="middle" letter-spacing=".01em"  >FICARIA O SEU?</text>
+      <text x="400" y="170" font-family="Anton" font-weight="400" font-size="72" fill="#F7F7F4" text-anchor="middle" letter-spacing=".01em"  >QUER VER COMO</text>
+      <text x="400" y="244" font-family="Anton" font-weight="400" font-size="72" fill="#F7F7F4" text-anchor="middle" letter-spacing=".01em"  >FICARIA O SEU?</text>
       
   <g transform="translate(690,148) rotate(-18)">
     <polygon points="10,10 130,60.4 10,110.8 36.4,60.4" fill="#111111"/>
@@ -40,8 +40,8 @@
   </g>
       <line x1="646.3878406783227" y1="244.5" x2="626.4692563912806" y2="256" stroke="#111111" stroke-width="5" stroke-linecap="round" /><line x1="636.2913409939623" y1="216.76009510168907" x2="613.6407626746816" y2="220.75400318802846" stroke="#111111" stroke-width="5" stroke-linecap="round" /><line x1="636.2913409939623" y1="187.2399048983109" x2="613.6407626746816" y2="183.2459968119715" stroke="#111111" stroke-width="5" stroke-linecap="round" />
     </svg>
-    <div class="cta" style="top:1104px;background:#163B66;color:#F7F7F4;border-color:#111111;box-shadow:8px 8px 0 #111111;font-size:40px;font-weight:700;letter-spacing:.14em;padding:12px 46px 14px">ME CHAMA NO DIRECT.</div>
-    <div class="txt " style="top:1206px;left:0px;right:0px;font-size:22px;font-family:Oswald;font-weight:600;letter-spacing:.3em">SEU PRÓXIMO LINK PODE SER O SEU SITE.</div>
+    <div class="cta" style="top:1094px;background:#163B66;color:#F7F7F4;border-color:#111111;box-shadow:8px 8px 0 #111111;font-size:40px;font-weight:700;letter-spacing:.14em;padding:12px 48px 14px">ME CHAMA NO DIRECT.</div>
+    <div class="txt " style="top:1212px;left:0px;right:0px;font-size:22px;font-family:Oswald;font-weight:600;letter-spacing:.3em">SEU PRÓXIMO LINK PODE SER O SEU SITE.</div>
   
   <div class="frame"></div>
   <div class="scroll"><div class="thumb" style="top:954px"></div></div>

diff --git a/src/styles.css b/src/styles.css
@@ -175,8 +175,8 @@ body { width: var(--w); height: var(--h); overflow: hidden; }
 .cta {
   position: absolute; z-index: 12; left: 50%; transform: translateX(-50%);
   font-family: "Oswald"; font-weight: 600; font-size: 28px; letter-spacing: .2em; text-transform: uppercase;
-  padding: 10px 32px; border: 5px solid var(--accent); background: var(--paper-2); color: var(--accent); font-weight: 700;
-  box-shadow: 7px 7px 0 var(--accent); white-space: nowrap;
+  padding: 10px 34px; border: 6px solid var(--accent); background: var(--paper-2); color: var(--accent); font-weight: 700;
+  box-shadow: 8px 8px 0 var(--accent); white-space: nowrap;
 }
 
 /* frase final grande, em preto */
@@ -209,8 +209,8 @@ body { width: var(--w); height: var(--h); overflow: hidden; }
 .panel.site .tab { background: var(--accent); color: var(--paper-2); transform: rotate(2deg); left: auto; right: -6px; }
 .panel .art { display: block; width: 100%; }
 .panel .cap {
-  font-family: "Barlow Condensed"; font-weight: 600; font-size: 29px; line-height: 1.12;
-  padding: 0 18px 20px; text-align: center; color: var(--deep);
+  font-family: "Barlow Condensed"; font-weight: 600; font-size: 30px; line-height: 1.12;
+  padding: 0 16px 20px; text-align: center; color: var(--deep);
 }
 .panel.site .cap { font-weight: 700; }
 .vs {

diff --git a/pages/01.html b/pages/01.html
@@ -63,8 +63,8 @@
   </g>
       <polygon points="150,698 156.16,713.84 172,720 156.16,726.16 150,742 143.84,726.16 128,720 143.84,713.84" fill="#111111"/> <polygon points="940,762 945.04,774.96 958,780 945.04,785.04 940,798 934.96,785.04 922,780 934.96,774.96" fill="#111111"/> <polygon points="560,544 564.48,555.52 576,560 564.48,564.48 560,576 555.52,564.48 544,560 555.52,555.52" fill="#163B66"/> <polygon points="120,888 123.36,896.64 132,900 123.36,903.36 120,912 116.64,903.36 108,900 116.64,896.64" fill="#111111"/>
     </svg>
-    <div class="txt " style="top:1090px;left:0px;right:0px;font-size:39px;font-weight:800;letter-spacing:.06em">SEU PERFIL APRESENTA.<br>O SITE EXPLICA.</div>
-    <div class="cta" style="top:1188px;">ARRASTE PARA ENTENDER →</div>
+    <div class="txt " style="top:1080px;left:0px;right:0px;font-size:41px;font-weight:800;letter-spacing:.06em">SEU PERFIL APRESENTA.<br>O SITE EXPLICA.</div>
+    <div class="cta" style="top:1180px;font-size:29px">ARRASTE PARA ENTENDER →</div>
   
   <div class="frame"></div>
   <div class="scroll"><div class="thumb" style="top:-4px"></div></div>

diff --git a/pages/02.html b/pages/02.html
@@ -10,7 +10,7 @@
   <div class="kicker">PRESENÇA DIGITAL <em>·</em> ATO 1 · A TRÉGUA</div>
   
     <div class="hl center" style="top:122px;font-size:150px;"><span class="l" data-t="SEU PERFIL" style="font-size:150px">SEU PERFIL</span><span class="l" data-t="FAZ BEM O QUE" style="font-size:118px">FAZ BEM O QUE</span><span class="l or" data-t="FOI FEITO PRA FAZER." style="font-size:92px">FOI FEITO PRA FAZER.</span></div>
-    <div class="txt serifish" style="top:490px;left:0px;right:0px;font-size:34px;font-weight:600">Ele mostra seu trabalho, em ordem de data,<br>para quem já chegou até você.</div>
+    <div class="txt serifish" style="top:490px;left:0px;right:0px;font-size:35px;font-weight:600">Ele mostra seu trabalho, em ordem de data,<br>para quem já chegou até você.</div>
     <svg class="art " style="display:block" width="1080" height="1350" viewBox="0 0 1080 1350" xmlns="http://www.w3.org/2000/svg">
 <defs>
   <pattern id="ht" width="9" height="9" patternUnits="userSpaceOnUse" patternTransform="rotate(25)">
